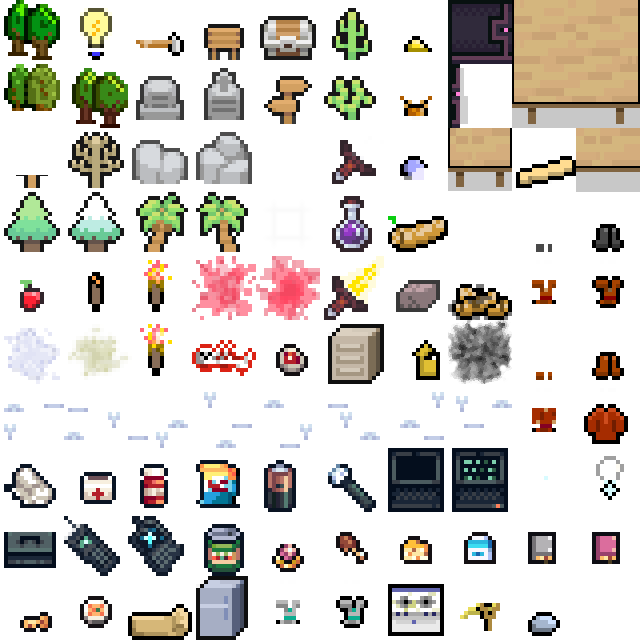
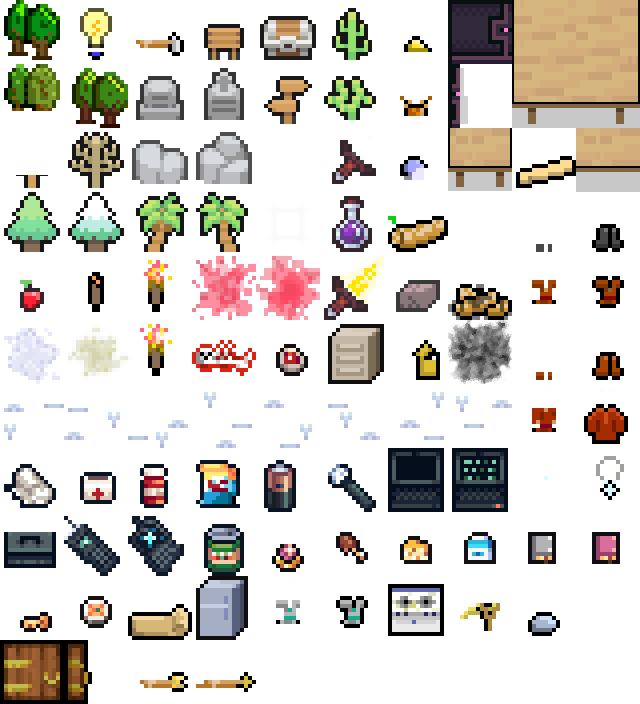
more stuff

diff --git a/src/main/kotlin/world/cartos/AttractCarto.kt b/src/main/kotlin/world/cartos/AttractCarto.kt
@@ -16,20 +16,19 @@ import world.terrains.Terrain
 import kotlin.Exception
 import kotlin.random.Random
 
-class WorldCarto(
+class AttractCarto(
     x0: Int,
     y0: Int,
     x1: Int,
     y1: Int,
     chunk: Chunk,
     level: Level,
-    val forStarter: Boolean = false
 ) : Carto(x0, y0, x1, y1, chunk, level) {
 
     val scale = 0.02
     val fullness = 0.002
 
-    fun carveWorldChunk(offset: Double = 0.0, forAttract: Boolean = false) {
+    fun carveWorldChunk(offset: Double = 0.0) {
         forEachCell { x, y ->
             val n = Perlin.noise((x.toDouble() + offset) * scale, y.toDouble() * scale, 59.0) +
                     Perlin.noise((x.toDouble() + offset) * scale * 0.4, y.toDouble() * scale * 0.4, 114.0) * 0.7
@@ -40,21 +39,15 @@ class WorldCarto(
             }
             val n2 = Perlin.noise(x * 0.02, y * 0.03, 8.12) +
                     Perlin.noise(x * 0.041, y * 0.018, 11.17) * 0.8
-            if (n2 > 0.02) {
-                carve(x, y, 0, Terrain.Type.TERRAIN_FORESTWALL)
+            if (n2 > 0.01) {
+                carve(x, y, 0, Terrain.Type.TERRAIN_CAVEWALL)
             }
-        }
-
-        if (Dice.chance(0.8f) || forStarter) {
-            val facing = CARDINALS.random()
-            carvePrefab(getPrefab(), Random.nextInt(x0, x1 - 20), Random.nextInt(y0, y1 - 20), facing)
-            assignDoor(facing)
         }
 
         for (x in 0 until width) {
             for (y in 0 until height) {
                 if (isWalkableAt(x + this.x0, y + this.y0)) {
-                    if (Dice.chance(if (forAttract) 0.010f else 0.005f)) {
+                    if (Dice.chance(0.01f)) {
                         KtxAsync.launch {
                             if (Dice.chance(0.8f)) {
                                 (if (Dice.chance(0.7f)) Ox() else MuskOx()).spawnAt(level, x + x0, y + y0)
@@ -67,7 +60,7 @@ class WorldCarto(
                     }
                     val n = Perlin.noise(x * 0.04, y * 0.04, 0.01) +
                             Perlin.noise(x * 0.7, y * 0.4, 1.5) * 0.5
-                    if (Dice.chance(n.toFloat() * 0.7f)) {
+                    if (Dice.chance(n.toFloat() * 1.6f)) {
                         addThing(x + this.x0, y + this.y0, if (Dice.flip()) OakTree() else PineTree())
                         if (Dice.chance(0.2f)) {
                             var clear = true
@@ -97,29 +90,6 @@ class WorldCarto(
 
         setRoofedInRock()
         setOverlaps()
-    }
-
-    private fun assignDoor(facing: XY) {
-        if (forStarter) {
-            log.info("Looking for door for starter dungeon...")
-        }
-        forEachCell { x, y ->
-            if (getTerrain(x, y) == Terrain.Type.TERRAIN_PORTAL_DOOR) {
-
-                val building = if (forStarter)
-                    StarterDungeon().at(x,y).facing(facing)
-                else
-                    BoringBuilding().at(x,y).facing(facing)
-
-                LevelKeeper.makeBuilding(building)
-                chunk.exits.add(Chunk.ExitRecord(
-                    Chunk.ExitType.LEVEL, XY(x,y),
-                    building.doorMsg(),
-                    buildingId = building.id,
-                    buildingFirstLevelId = building.firstLevelId
-                ))
-            }
-        }
     }
 
 }

diff --git a/src/main/kotlin/actors/Ratlord.kt b/src/main/kotlin/actors/Ratlord.kt
@@ -1,7 +1,7 @@
 package actors
 
-import actors.actions.Action
-import actors.actions.Wait
+import actors.states.IdleInRoom
+import actors.states.Looting
 import actors.stats.Brains
 import actors.stats.Speed
 import actors.stats.Strength
@@ -10,11 +10,15 @@ import actors.stats.skills.Fight
 import audio.Speaker
 import kotlinx.serialization.Serializable
 import render.tilesets.Glyph
+import things.Cheese
 import things.Teeth
+import things.Thing
 import util.Dice
 
 @Serializable
-class Ratlord : NPC() {
+class Ratlord(
+    val wizardName: String
+) : NPC() {
     companion object {
         val weapon = Teeth()
     }
@@ -29,7 +33,33 @@ class Ratlord : NPC() {
         Brains.set(this, 9f)
         Fight.set(this, 3f)
     }
-    override fun meleeWeapon() = weapon
-    override fun talkSound(actor: Actor) = Speaker.SFX.RAT
+    override fun meleeWeapon() = Ratman.weapon
+    override fun isHostile() = true
+    override fun idleState() = IdleInRoom()
 
+    override fun converseLines() = listOf(
+        "Ttthhhee rebelliouthh one!  Killl him!",
+        "You dare to defy $wizardName?  Die!",
+        "The ethhcaped thhlave!  He itthh here!",
+        "The penalty for ethcape ith death!"
+    )
+    override fun talkSound(actor: Actor) = Speaker.SFX.RAT
+    override fun meetPlayerMsg() = this.dnamec() + " says, \"" + converseLines().random() + "\""
+    fun findCheeseLines() = listOf(
+        "Arrgg cheethe!  I can't rethithht!",
+        "What?!  Cheethe rationth!",
+        "Unclaimed cheethe!  I'll take that."
+    )
+
+
+    override fun considerState() {
+        if (state !is Looting) {
+            val cheeses = entitiesSeen { it is Cheese }
+            if (cheeses.isNotEmpty()) {
+                val cheese = cheeses.keys.random()
+                pushState(Looting(cheese.xy()!!, (cheese as Thing).thingTag()))
+                say(findCheeseLines().random())
+            }
+        }
+    }
 }

diff --git a/src/main/kotlin/world/cartos/LevelCarto.kt b/src/main/kotlin/world/cartos/LevelCarto.kt
@@ -46,14 +46,17 @@ class LevelCarto(
                 if (Dice.chance(0.6f)) {
                     addThing(Dice.range(room.x0, room.x1), Dice.range(room.y0, room.y1), if (Dice.chance(0.7f)) FilingCabinet() else Fridge())
                 }
-                if (Dice.chance(0.1f)) {
+                if (Dice.chance(0.3f)) {
                     Ratthing().spawnAt(level, Dice.range(room.x0, room.x1), Dice.range(room.y0, room.y1))
                 }
-                if (Dice.chance(0.4f) && building is WizardDungeon) {
+                if (Dice.chance(0.3f) && building is WizardDungeon) {
                     Thrall(building.wizardName).spawnInRoom(level, room)
                 }
-                if (Dice.chance(0.8f) && building is WizardDungeon) {
+                if (Dice.chance(0.1f) && building is WizardDungeon) {
                     Ratman(building.wizardName).spawnInRoom(level, room)
+                }
+                if (Dice.chance(0.3f)) {
+                    Peeper().spawnAt(level, Dice.range(room.x0, room.x1), Dice.range(room.y0, room.y1))
                 }
 
                 nextRegion++

diff --git a/src/main/kotlin/actors/Player.kt b/src/main/kotlin/actors/Player.kt
@@ -34,7 +34,7 @@ open class Player : Actor() {
     override fun glyph() = Glyph.PLAYER
     override fun name() = "Thundarr"
     override fun gender() = Entity.Gender.MALE
-    override fun description() = "A stalwart blond barbarian in a leather tunic."
+    override fun description() = "A stalwart blond barbarian.  His good looks are somewhat marred by a permanent scowl."
     override fun dname() = name()
     override fun iname() = name()
 
@@ -53,7 +53,7 @@ open class Player : Actor() {
     val autoPickUpTypes = mutableListOf<String>()
 
     init {
-        Pather.subscribe(this, this, 100f)
+        Pather.subscribe(this, this, 60f)
     }
 
     open fun onSpawn() {
@@ -64,14 +64,6 @@ open class Player : Actor() {
         Fight.set(this, 1f)
         Throw.set(this, 1f)
         Survive.set(this, 1f)
-
-        Pickaxe().moveTo(this)
-        Axe().moveTo(this)
-        Lighter().moveTo(this)
-        repeat (6) { Brick().moveTo(this) }
-        Bedroll().moveTo(this)
-        FirstAidKit().moveTo(this)
-        repeat (4) { Cheese().moveTo(this) }
     }
 
     override fun die() {

diff --git a/src/main/kotlin/actors/Ratman.kt b/src/main/kotlin/actors/Ratman.kt
@@ -28,7 +28,7 @@ class Ratman(
     }
     override fun glyph() = Glyph.RATMAN
     override fun name() = "rat-man"
-    override fun description() = "A man-sized hunched gray rodent, its eyes glittering with hatred."
+    override fun description() = "A man-sized hunched gray rodent. Its eyes glitter with hatred."
     override fun onSpawn() {
         hpMax = 15f
         hp = 15f
@@ -38,6 +38,8 @@ class Ratman(
         Fight.set(this, 2f)
     }
     override fun meleeWeapon() = weapon
+    override fun isHostile() = true
+    override fun idleState() = IdleInRoom()
 
     override fun converseLines() = listOf(
         "Ttthhhee rebelliouthh one!  Killl him!",
@@ -53,7 +55,6 @@ class Ratman(
         "Unclaimed cheethe!  I'll take that."
     )
 
-    override fun idleState() = IdleInRoom()
 
     override fun considerState() {
         if (state !is Looting) {

diff --git a/src/main/kotlin/world/Chunk.kt b/src/main/kotlin/world/Chunk.kt
@@ -12,6 +12,7 @@ import render.tilesets.Glyph
 import things.LightSource
 import things.Thing
 import util.*
+import world.cartos.AttractCarto
 import world.cartos.WorldCarto
 import world.level.AttractLevel
 import world.level.EnclosedLevel
@@ -162,8 +163,8 @@ class Chunk(
     fun generateAttractLevel(level: Level) {
         generating = true
         connectLevel(level)
-        WorldCarto(0, 0, AttractLevel.dimension - 1, AttractLevel.dimension - 1, this, level).apply {
-            carveWorldChunk(Random.nextDouble() * 1000.0 + 500.0, forAttract = true)
+        AttractCarto(0, 0, AttractLevel.dimension - 1, AttractLevel.dimension - 1, this, level).apply {
+            carveWorldChunk(Random.nextDouble() * 1000.0 + 500.0)
         }
         generating = false
     }

diff --git a/src/main/kotlin/things/Container.kt b/src/main/kotlin/things/Container.kt
@@ -99,14 +99,15 @@ class Fridge : Container() {
         // TODO: Find a more generic way to deal with this, that doesn't involve launching one for every thing.onSpawn().
         KtxAsync.launch {
             repeat (Dice.oneTo(3)) {
-                when (Dice.zeroTo(7)) {
-                    0 -> RawMeat()
+                when (Dice.zeroTo(13)) {
+                    0,8,9,10 -> RawMeat()
                     1 -> ChickenLeg()
                     2 -> Cheese()
                     3 -> EnergyDrink()
                     4 -> Steak()
                     5 -> Apple()
                     6 -> Pear()
+                    7,11 -> ThrallChow()
                     else -> Stew()
                 }.moveTo(this@Fridge)
             }

diff --git a/src/main/kotlin/things/Consumable.kt b/src/main/kotlin/things/Consumable.kt
@@ -169,6 +169,15 @@ class Stew : Food() {
 }
 
 @Serializable
+class ThrallChow : Food() {
+    override fun glyph() = Glyph.PACKAGE_BAG
+    override fun name() = "thrall-chow"
+    override fun description() = "A plastic bag of Thrall-Chow(tm).  'For minimum Thrall sustenance,' says the colorful package."
+    override fun calories() = 1200
+    override fun consumeSelfMsg() = "You choke down the dry fibrous chow chips.  How depressing."
+}
+
+@Serializable
 class EnergyDrink : Consumable() {
     override fun glyph() = Glyph.BOTTLE
     override fun name() = "energy drink"

diff --git a/src/main/kotlin/render/tilesets/ThingTileSet.kt b/src/main/kotlin/render/tilesets/ThingTileSet.kt
@@ -135,4 +135,8 @@ fun ThingTileSet() =
         setTile(Glyph.STOVE, SimpleTile(this, 6, 9))
         setTile(Glyph.SLINGSHOT, SimpleTile(this, 7, 9))
         setTile(Glyph.ROCK, SimpleTile(this, 8, 9))
+        setTile(Glyph.WOOD_DOOR_CLOSED, SimpleTile(this, 0, 10))
+        setTile(Glyph.WOOD_DOOR_OPEN, SimpleTile(this, 1, 10))
+        setTile(Glyph.TRIDENT, SimpleTile(this, 2, 10))
+        setTile(Glyph.SPEAR, SimpleTile(this, 3, 10))
     }

diff --git a/src/main/kotlin/actors/Peeper.kt b/src/main/kotlin/actors/Peeper.kt
@@ -3,6 +3,7 @@ package actors
 import actors.actions.Action
 import actors.actions.Wait
 import actors.animations.Slide
+import actors.states.IdleWander
 import actors.stats.Brains
 import actors.stats.Speed
 import actors.stats.Strength
@@ -37,5 +38,7 @@ class Peeper : NPC() {
     override fun corpse() = null
     override fun bloodstain() = Goo()
     override fun gore() = GooGore()
+
+    override fun idleState() = IdleWander(0.6f)
 
 }

diff --git a/src/main/kotlin/ui/modals/InventoryModal.kt b/src/main/kotlin/ui/modals/InventoryModal.kt
@@ -67,7 +67,9 @@ class InventoryModal(
 
     override fun drawModalText() {
         if (maxSelection < 0) {
-            drawOptionText((parentModal as InventoryModal).withContainer?.isEmptyMsg() ?: "It's empty.", 0)
+            parentModal?.also {
+                drawOptionText((parentModal as InventoryModal).withContainer?.isEmptyMsg() ?: "It's empty.", 0)
+            }
             changeSelection(-1)
             return
         }

diff --git a/src/main/kotlin/things/Door.kt b/src/main/kotlin/things/Door.kt
@@ -101,3 +101,9 @@ sealed class Door : Thing(), Smashable {
 class ModernDoor : Door() {
     override fun description() = "A dull metal sliding door, pitted with corrosion."
 }
+
+class WoodDoor : Door() {
+    override fun description() = "A heavy oak door bound with brass."
+    override fun openGlyph() = Glyph.WOOD_DOOR_OPEN
+    override fun closedGlyph() = Glyph.WOOD_DOOR_CLOSED
+}
